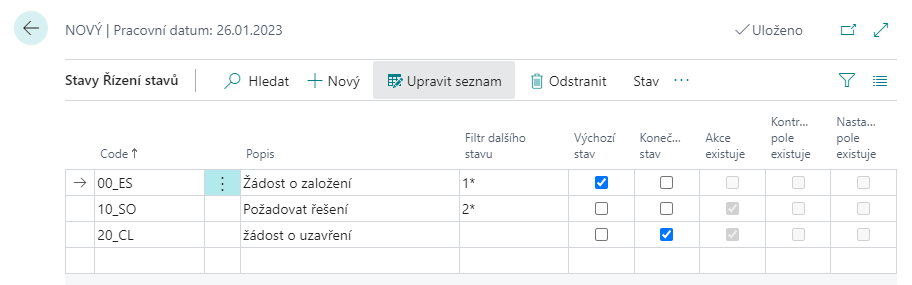
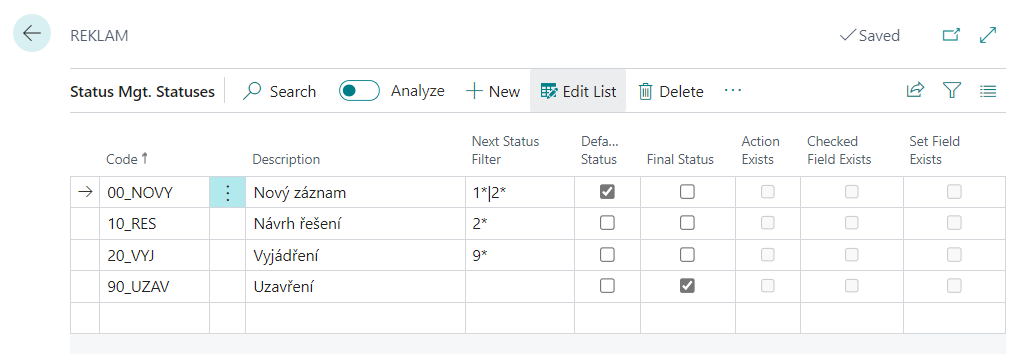
Update Workflow status management setup

diff --git a/business-central/AC-ProductivityPack/ac-workflow-status-management-setup.md b/business-central/AC-ProductivityPack/ac-workflow-status-management-setup.md
@@ -1,5 +1,5 @@
 ---
-title: Workflow status management setup| Microsoft Docs
+title: Workflow status management setup 
 description: Workflow status management setup
 author: ac-kunes
 ms.service: dynamics365-business-central
@@ -8,7 +8,8 @@ ms.devlang: na
 ms.tgt_pltfrm: na
 ms.workload: na
 ms.search.keywords: Czech, Workflow status management setup, additional functions
-ms.author: v-makune
+ms.author: v-pejano
+ms.date: 07/18/2023
 ---
 # WorkFlow - State Management - Setup
 
@@ -21,7 +22,7 @@ ms.author: v-makune
 
 ![State Management - Status Management Templates](media/WF_Templates.png)
 
-5. To specify individual states for the newly created State Management, click the **Template** action, and then click **Status Mgt. States**.
+5. To specify individual states for the newly created State Management, click on the  **Statuses**.
 
 For each Status management state, you must define a **Code**, **Description**, and **Next status filter** that determines what other states can be accessed from that state. Just one of the states must be marked as **Default Status** (by checking the Default Status button). This state is then automatically filled in when a new row is created in the table with which the state control works (document, request, etc.).
 
@@ -31,15 +32,15 @@ An example of state settings for State Control is shown in the figure below.
 
 ![Status Management Settings - State Control Statuses](media/WF_states.png)
 
-For the active row on the **Status Management States page**, you can use the **Status** function to specify:
-- **Status management Actions**
-- **Checked fields**
-- **Set Fields**
-- **Checked Tables**
+For the active row on the **Status Mgt. Statuses** page, you can specify:
 
-![Status Management Settings - State Control Functions](media/WF_states_header.png)
+- **Checked fields**
+- **Checked Tables**
+- **Set Fields**
+- **Status management Actions**
 
 ### Checked fields
+
 For each state (the row on the Status Management Statuses page), you can define fields to check when you enter that state.
 
 For the fields to be checked, it is necessary to fill in at least **Code**, **Fields No.** (where the field that should be checked is recorded) and the **Value Checking** field (indicates what type of check will be performed when the state is set):
@@ -50,11 +51,13 @@ For the fields to be checked, it is necessary to fill in at least **Code**, **Fi
 - **Compare Fields** - When selecting this option, it is important to fill in the **Comparison Field No.** field. This field determines which field we will compare the field to. It is also important to fill in the **Compare Condition**field, where we can also specify comparison methods as in the previous option.
 
 ### Set Fields
+
 It is possible to define fields for each status, which will be set when entering this status.
 
 For the field you are setting, you must fill in **Field No.** and **Value** fields. The Value field specifies what value the field is set to when it goes to the Status Management status.
 
 ### Status Management Actions
+
 The Actions define Codeunits, Reports and XMLPorts that can be run when entering a given status. Codeunits for events can be created by the partner himself according to his own needs in the object numbers allowed by his license.
 
 For each status, you can define the actions that will be performed when you transition to that state. For Action, you must define the **Action Code**, **Field No. (Value),** and **Value** fields.
@@ -63,11 +66,24 @@ In the **Field No. (Value)** field, it is defined from which field the content i
 Using the Mail Texts function, you can define the content of the mail (subject and custom text). It is possible to insert codes into the text, which are replaced by the contents of the fields when you send the mail. Codes are defined using the Mail Fields function
 
 ### Checked Tables
+
 This feature helps you check the field you set on another page (in a different table, such as the table you're currently working in). It is a similar feature to the Status Management Actions. With this function, you can verify or a field on another page is set as needed when you transition to the state where you are using this feature.
 
 If you click the Checked Tables feature, the Status management Checked Tables page opens, where the **Template Code** and **Status Code** fields are automatically populated. On this page, you need to fill in the **Code** field, **Table ID** in which you want to check a field, the **Table Checking Condition**, and possibly the **Value** field.
 
+## Status Management setup
 
+This setting is used to link defined state management templates to the entity in which the state management is to be used.
+
+1. Choose the ![Lightbulb that opens the Tell Me feature.](media/ui-search/search_small.png "Tell me what you want to do") icon, type **Status Mgt. Setup** and then select the associated link.
+2. On the **Status Mgt. Setup** page, select the **New** action.
+3. Fill in the **Table Number** and **Status Mgt. Templates** fields.
+4. If you want to enable user checks, select the **Status Mgt. User Checks** check box.
+
+![Status Management setup](media/WF_states_setup.png)
+
+> [!NOTE]
+> The state management settings will only be activated after users have logged out and logged back in, as indicated by the informational message.
 
 ## See also
 
